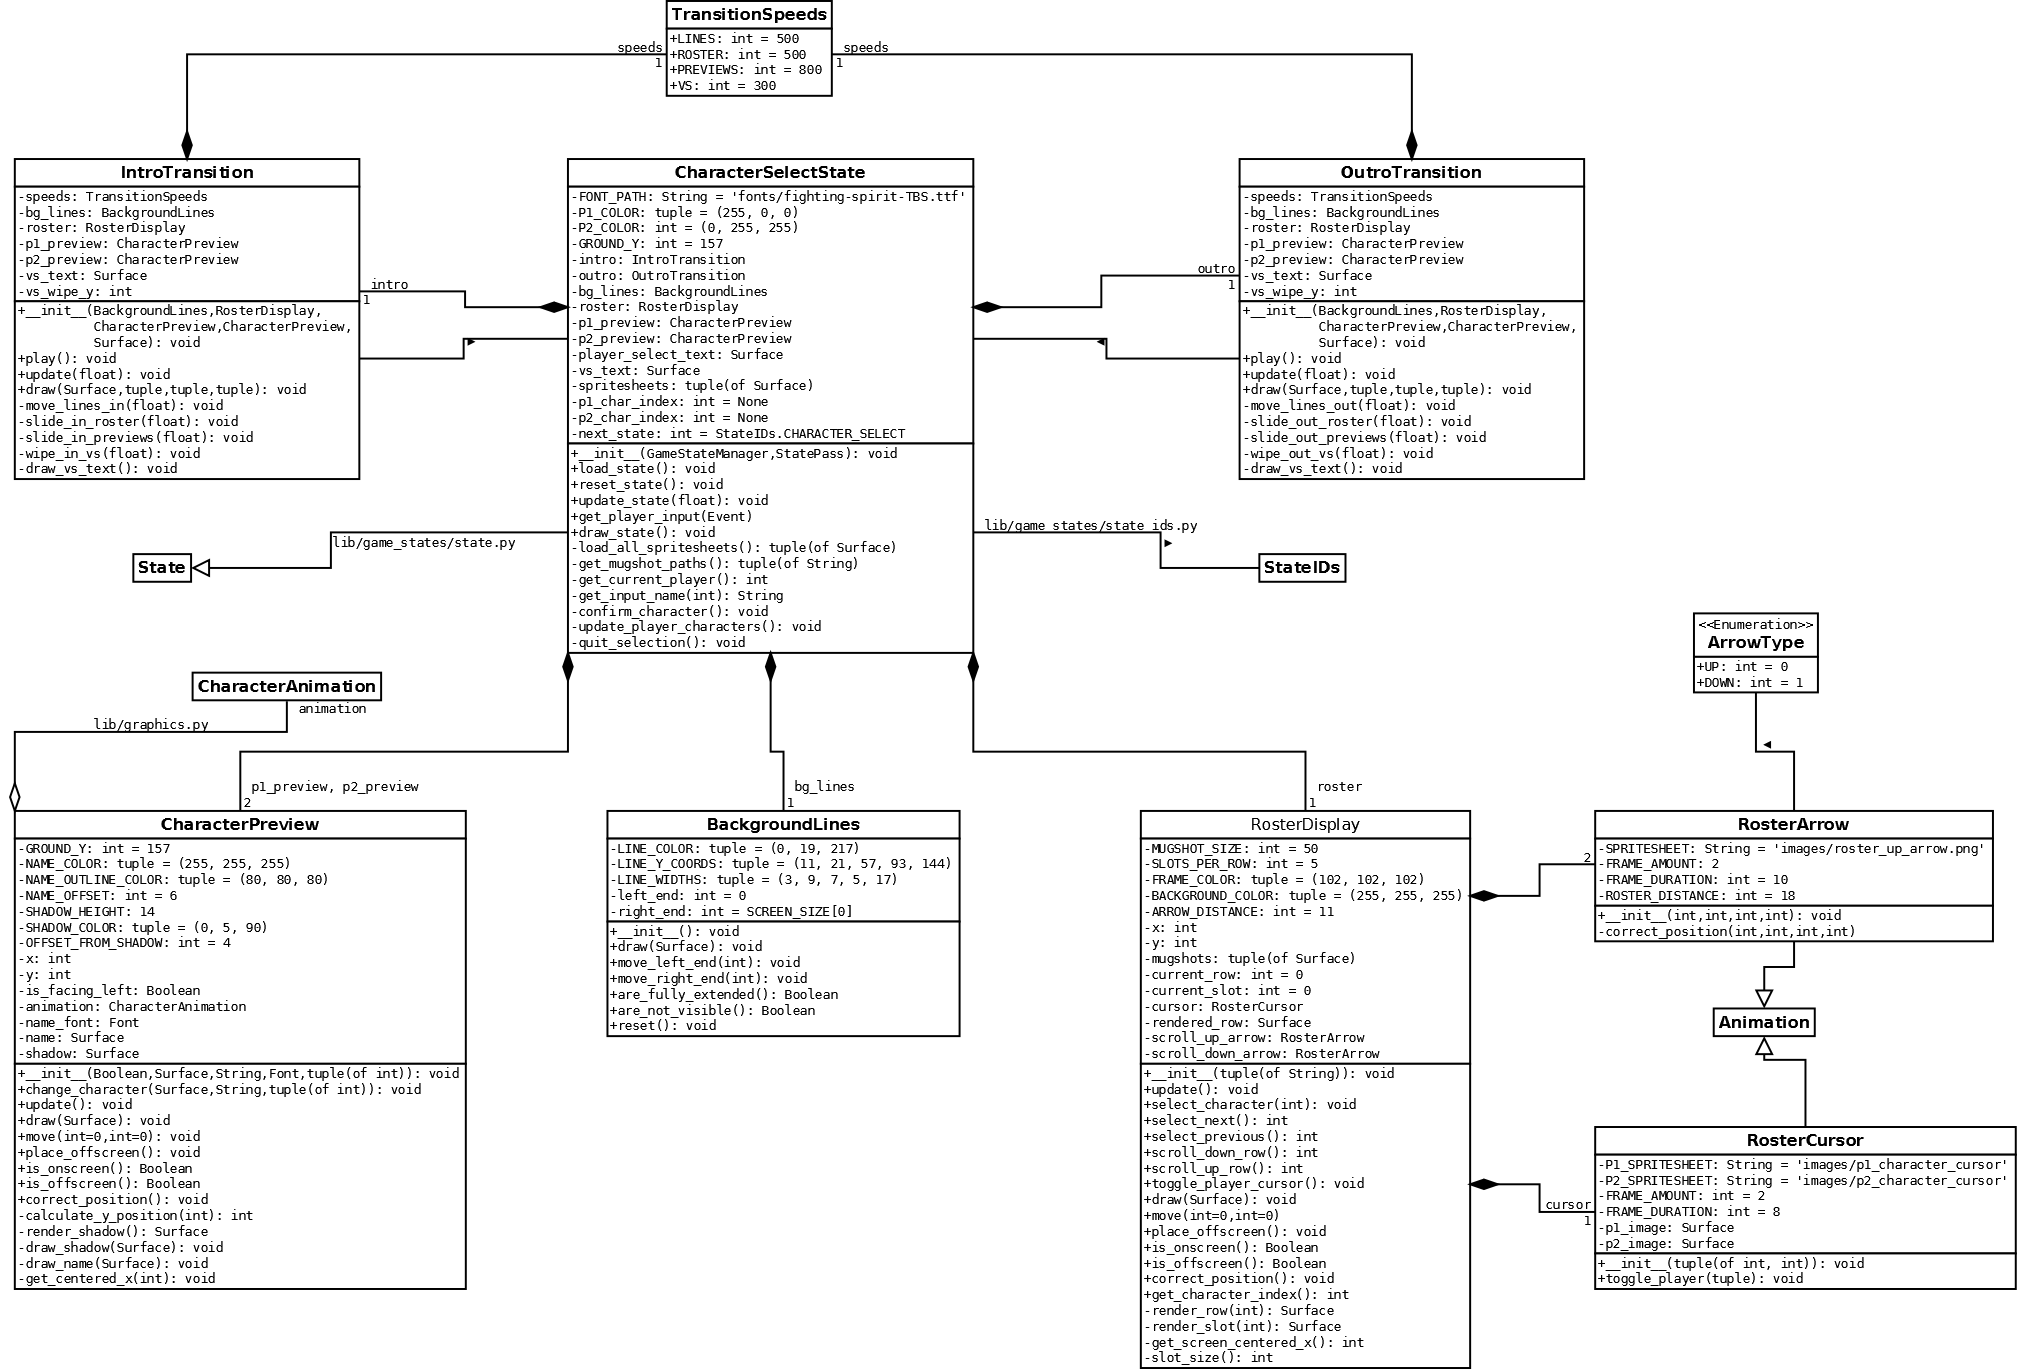
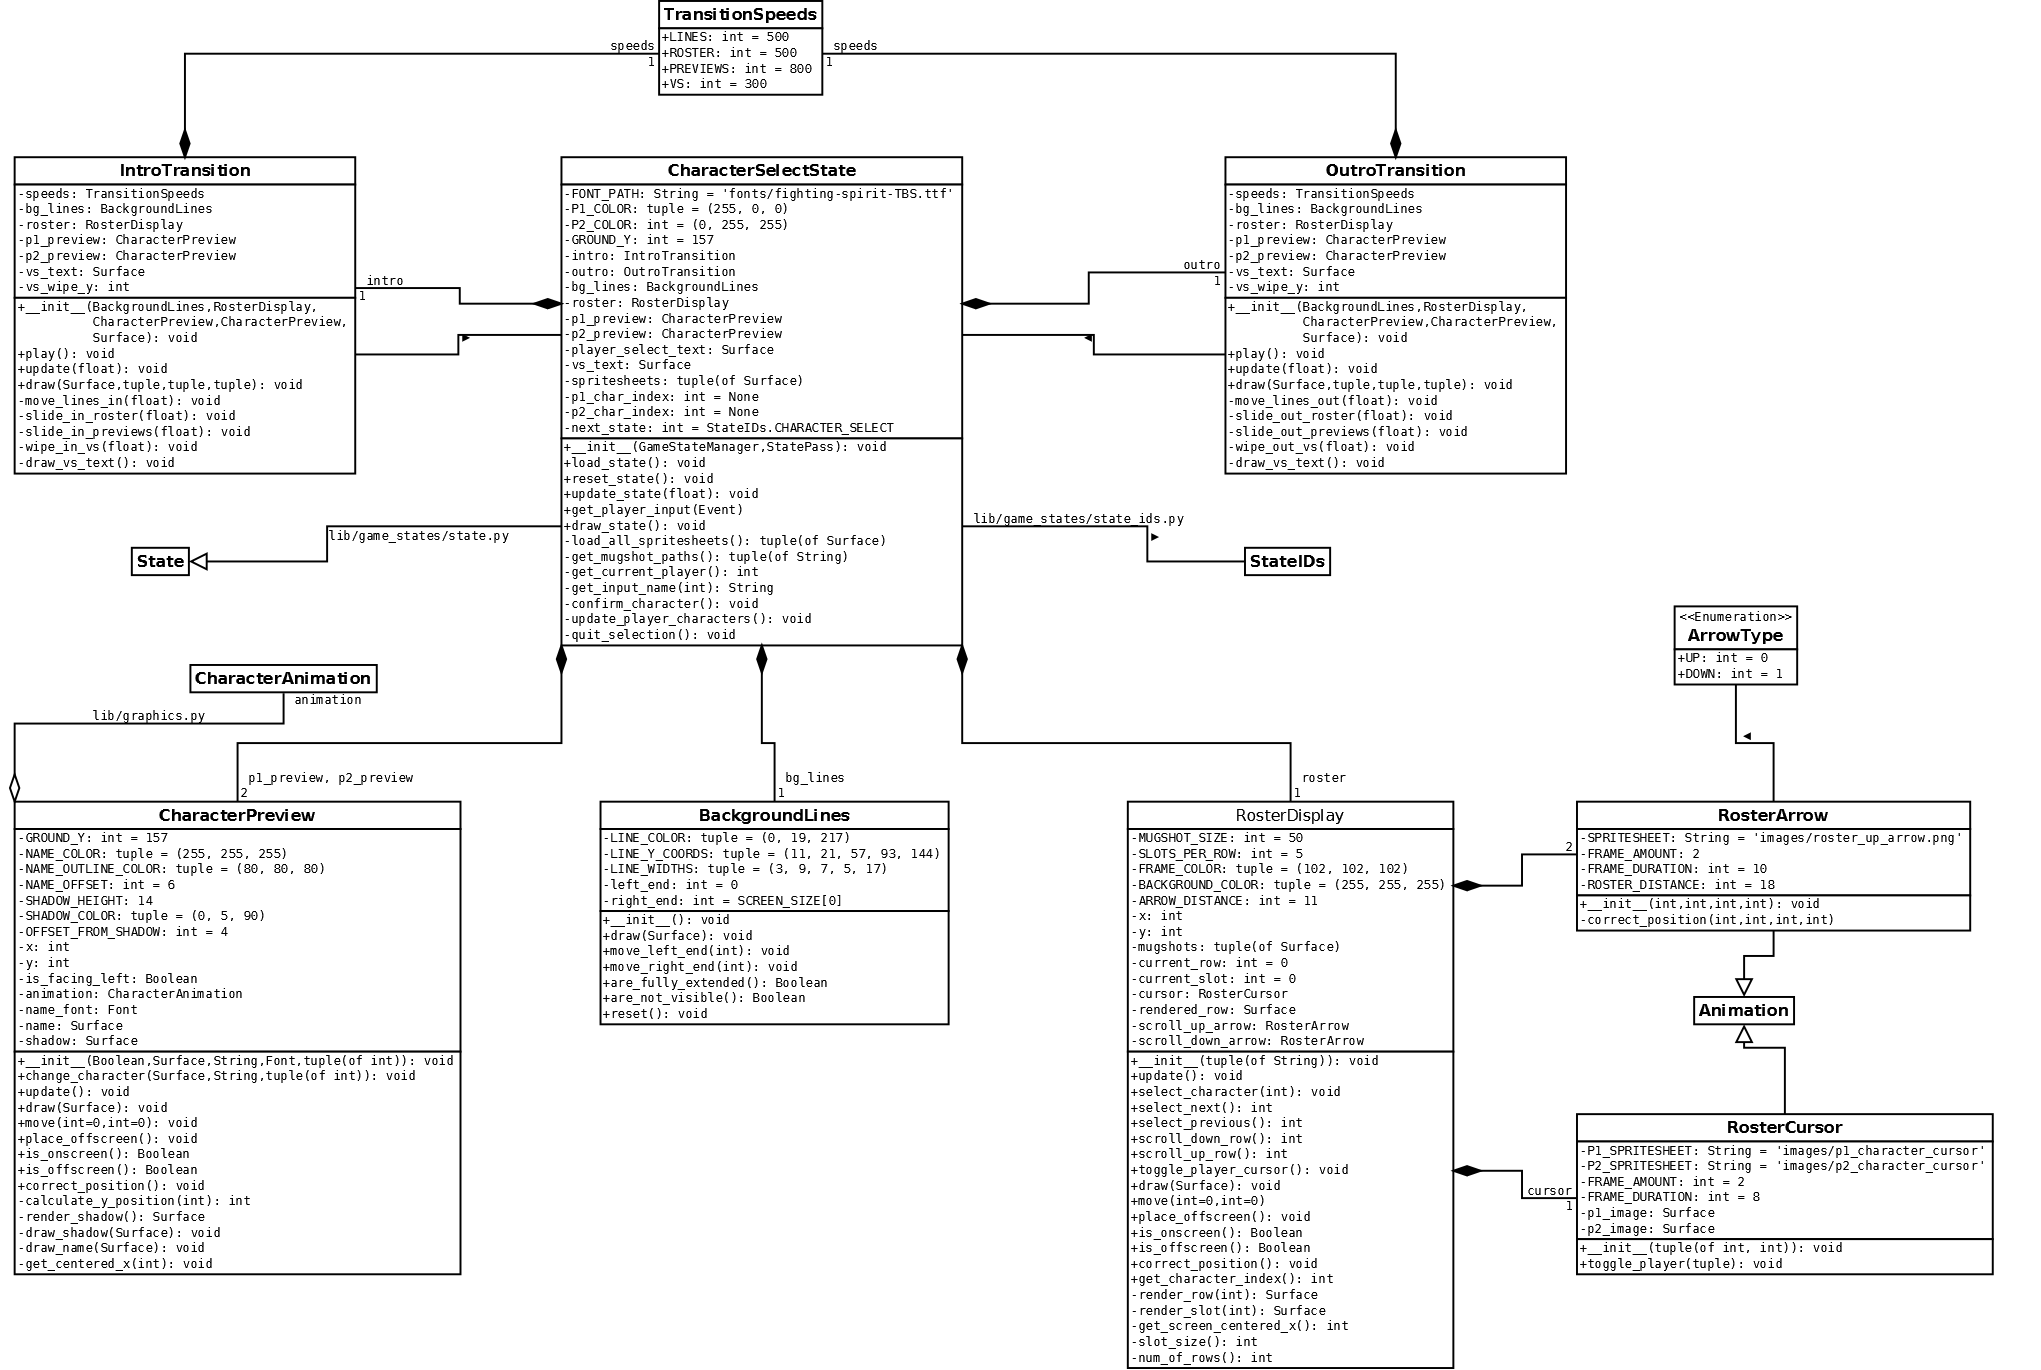
RosterDisplay: Write draw(), add num_of_rows()

diff --git a/lib/game_states/character_select_state.py b/lib/game_states/character_select_state.py
@@ -1,3 +1,4 @@
+from math import ceil as round_up
 import pygame.transform as transform
 import pygame.draw
 import pygame.locals
@@ -160,6 +161,26 @@ class RosterDisplay():
         roster on the screen.
         """
         return (SCREEN_SIZE[0] - self.rendered_row.get_width()) / 2
+
+    def num_of_rows(self):
+        """Return an integer for the number of rows of characters that
+        can be selected.
+        """
+        return round_up(len(self.mugshots) / float(self.SLOTS_PER_ROW))
+
+    def draw(self, parent_surf):
+        """Draw the entire roster onto another Surface.
+
+        Args:
+            parent_surf: The Surface upon which the roster will be
+                drawn.
+        """
+        parent_surf.blit(self.rendered_row, (self.x, self.y))
+        self.cursor.draw(parent_surf)
+        if self.current_row > 0:
+            self.scroll_up_arrow.draw(parent_surf)
+        if self.current_row < self.num_of_rows() - 1:
+            self.scroll_down_arrow.draw(parent_surf)
 
 
 class RosterCursor(Animation):
